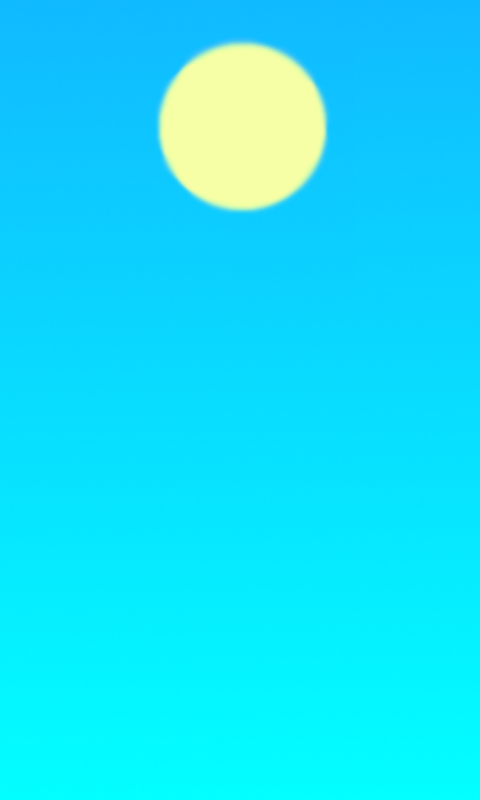
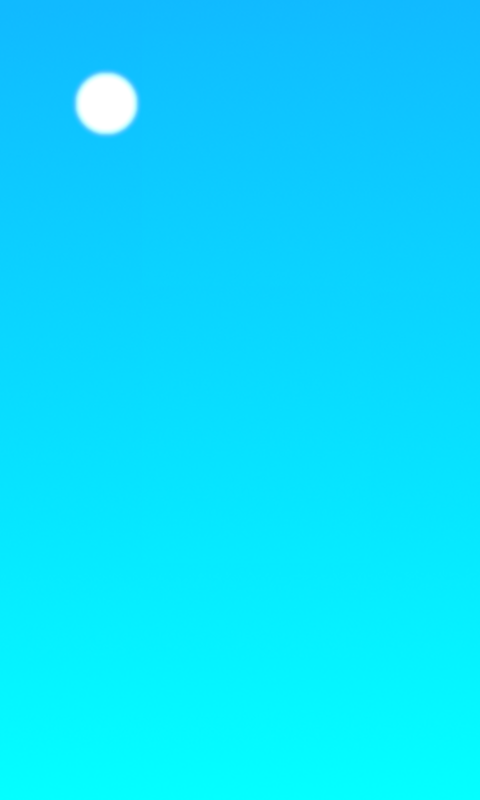
parallax bg

Changed region(s): [[0.1562, 0.0312, 0.6875, 0.2812]]

diff --git a/app/src/main/java/com/telolahy/mariosokoban/scene/MainMenuScene.java b/app/src/main/java/com/telolahy/mariosokoban/scene/MainMenuScene.java
@@ -127,13 +127,14 @@ public class MainMenuScene extends BaseScene {
 
         final AutoParallaxBackground autoParallaxBackground = new AutoParallaxBackground(0, 0, 0, 5);
         autoParallaxBackground.attachParallaxEntity(new ParallaxBackground.ParallaxEntity(0, new Sprite(Constants.SCREEN_WIDTH / 2, Constants.SCREEN_HEIGHT / 2, mResourcesManager.menuParallaxLayerBackRegion, mVertexBufferObjectManager)));
-        autoParallaxBackground.attachParallaxEntity(new ParallaxBackground.ParallaxEntity(-2.f, new Sprite(Constants.SCREEN_WIDTH / 2, Constants.SCREEN_HEIGHT - mResourcesManager.menuParallaxLayerMidRegion.getHeight() / 2, mResourcesManager.menuParallaxLayerMidRegion, mVertexBufferObjectManager)));
-        autoParallaxBackground.attachParallaxEntity(new ParallaxBackground.ParallaxEntity(-5.f, new Sprite(Constants.SCREEN_WIDTH / 2, mResourcesManager.menuParallaxLayerFrontRegion.getHeight() / 2, mResourcesManager.menuParallaxLayerFrontRegion, mVertexBufferObjectManager)));
+        autoParallaxBackground.attachParallaxEntity(new ParallaxBackground.ParallaxEntity(-2.f, 2.f, new Sprite(Constants.SCREEN_WIDTH / 2, Constants.SCREEN_HEIGHT - mResourcesManager.menuParallaxLayerMidRegion.getHeight() / 2, mResourcesManager.menuParallaxLayerMidRegion, mVertexBufferObjectManager)));
+        autoParallaxBackground.attachParallaxEntity(new ParallaxBackground.ParallaxEntity(-10.f, new Sprite(Constants.SCREEN_WIDTH / 2, mResourcesManager.menuParallaxLayerFrontRegion.getHeight() / 2, mResourcesManager.menuParallaxLayerFrontRegion, mVertexBufferObjectManager)));
         setBackground(autoParallaxBackground);
 
         final int groundY = 28;
         final AnimatedSprite player = new AnimatedSprite(Constants.SCREEN_WIDTH / 2, mResourcesManager.menuPlayerTextureRegion.getHeight() / 2 + groundY, mResourcesManager.menuPlayerTextureRegion, mVertexBufferObjectManager);
-        player.animate(new long[]{250, 250, 250, 250}, 0, 3, true);
+        final int tileDelay = 300;
+        player.animate(new long[]{tileDelay, tileDelay, tileDelay, tileDelay}, 0, 3, true);
         attachChild(player);
     }
 

diff --git a/andEngine/src/main/java/org/andengine/entity/scene/background/ParallaxBackground.java b/andEngine/src/main/java/org/andengine/entity/scene/background/ParallaxBackground.java
@@ -92,14 +92,20 @@ public class ParallaxBackground extends Background {
 		// ===========================================================
 
 		final float mParallaxFactor;
+        final float mCameraFactor;
 		final IEntity mEntity;
 
 		// ===========================================================
 		// Constructors
 		// ===========================================================
 
-		public ParallaxEntity(final float pParallaxFactor, final IEntity pEntity) {
+        public ParallaxEntity(final float pParallaxFactor, final IEntity pEntity) {
+            this(pParallaxFactor, 1.f, pEntity);
+        }
+
+		public ParallaxEntity(final float pParallaxFactor, final float pCameraFactor, final IEntity pEntity) {
 			this.mParallaxFactor = pParallaxFactor;
+            this.mCameraFactor = pCameraFactor;
 			this.mEntity = pEntity;
 
 			// TODO Adjust onDraw calculations, so that these assumptions aren't necessary.
@@ -127,7 +133,7 @@ public class ParallaxBackground extends Background {
 		public void onDraw(final GLState pGLState, final Camera pCamera, final float pParallaxValue) {
 			pGLState.pushModelViewGLMatrix();
 			{
-				final float cameraWidth = pCamera.getWidth();
+				final float cameraWidth = mCameraFactor * pCamera.getWidth();
 				final float entityWidthScaled = this.mEntity.getWidth() * this.mEntity.getScaleX();
 				float baseOffset = (pParallaxValue * this.mParallaxFactor) % entityWidthScaled;
 
